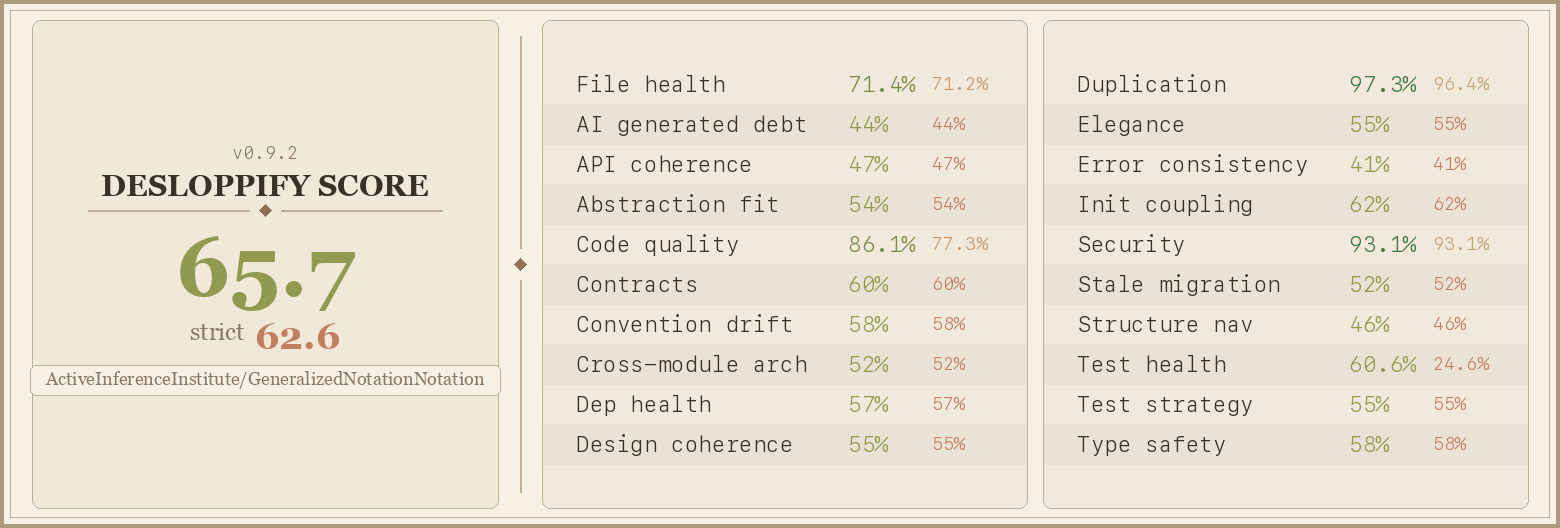
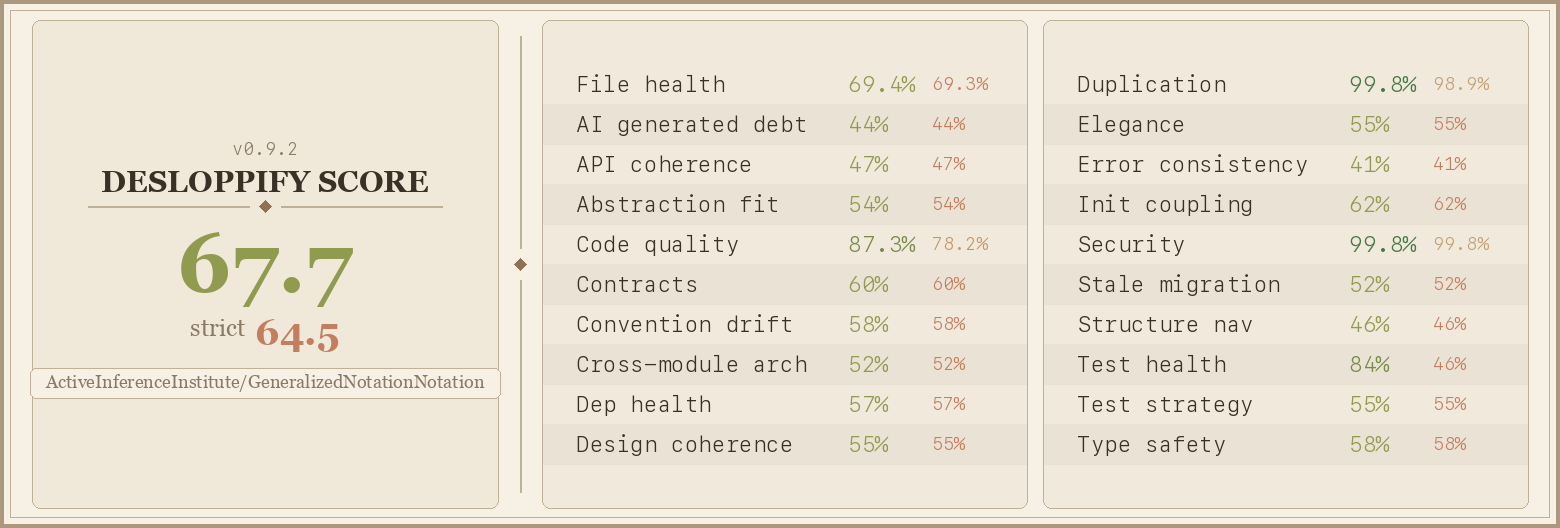
desloppify: fix security findings batch 2 (B112, B311, B104, B608, B324, B603 gaps)
- Fix B112 (Try/Except/Continue) in reporting.py, matrix_visualizer.py, visualizer.py
  by adding logger.debug() calls
- Add nosec B112 to test_coverage_overall.py (uninspectable callables pattern)
- Add nosec B311 to pymdp_simulation.py and visualization_optimizer.py
  (random used for non-cryptographic sampling)
- Add nosec B104 to GUI processors (intentional 0.0.0.0 binding for local dev)
- Add nosec B608 to jax_renderer.py (code generation template, not live SQL)
- Add nosec B324 to test_round_trip.py (md5 for content fingerprinting only)
- Fix remaining B603 gaps in setup/dependency_setup.py and test_runner_modular.py
- Add logging module to matrix_visualizer.py and visualization_suite.py
- Complete auto/security cluster (315 → 0 open items)

diff --git a/src/utils/shared_functions.py b/src/utils/shared_functions.py
@@ -232,9 +232,12 @@ def ensure_output_directory(output_dir: Path, logger: logging.Logger) -> bool:
     try:
         output_dir.mkdir(parents=True, exist_ok=True)
 
-        # Test write access
+        # Test write access via atomic write probe
+        import tempfile as _tempfile
         test_file = output_dir / ".test_write_access"
-        test_file.write_text("test")
+        with _tempfile.NamedTemporaryFile(mode='w', dir=output_dir, delete=False) as _tmp:
+            _tmp.write("test")
+        os.replace(_tmp.name, str(test_file))
         test_file.unlink()
 
         return True

diff --git a/src/gnn/processor.py b/src/gnn/processor.py
@@ -3,8 +3,6 @@
 GNN processor module for GNN pipeline.
 """
 
-import os
-import tempfile
 from pathlib import Path
 from typing import Dict, Any, List, Union
 import logging
